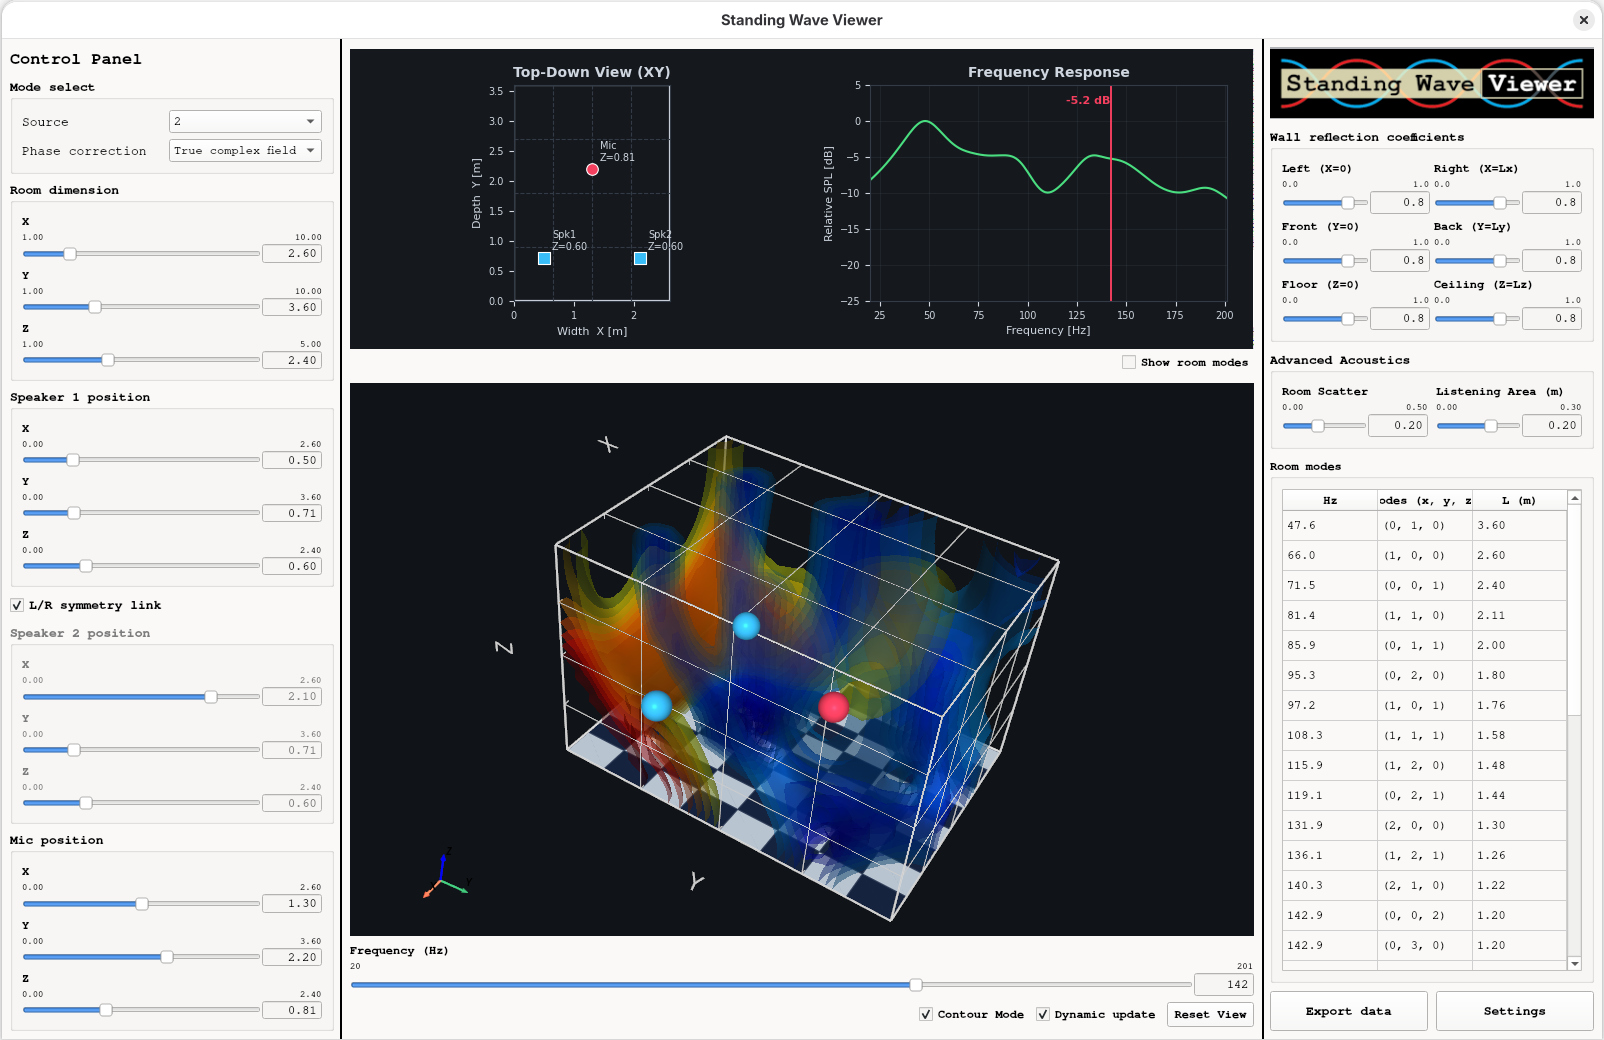
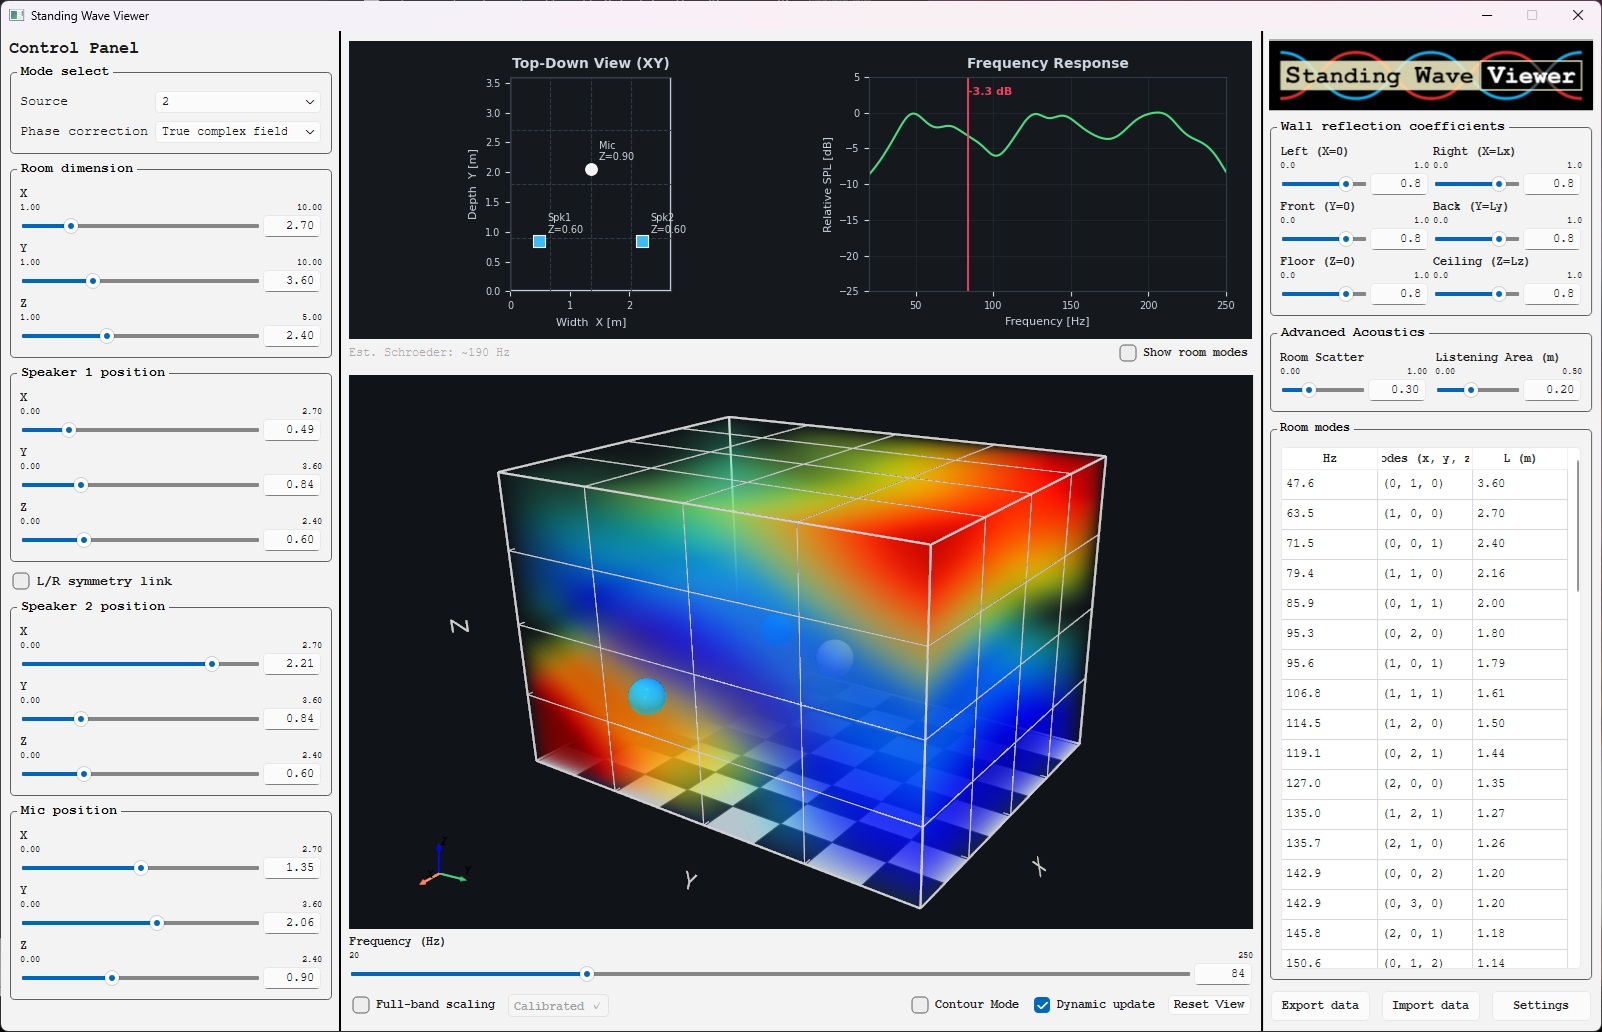
Readme and screenshot update

diff --git a/README.md b/README.md
@@ -43,6 +43,11 @@ To bridge the gap between ideal theoretical physics and real-world perception, u
 ### Windows
 Please download the Windows build from [Release](https://github.com/TatschanT/swv_desktop/releases/). Extract it to any folder and run SWV.exe.
 
+**⚠ Windows Startup Notice**
+Since this is a free, open-source application, the .exe file does not include a paid digital signature. On your first launch, Windows SmartScreen may display a blue warning ("Windows protected your PC").
+To launch the app safely, click "More info" and then select "Run anyway".
+(Tip: You can prevent this by right-clicking the downloaded ZIP, opening Properties, checking "Unblock", and then extracting.)
+
 ### Running on a local environment on Mac and Linux 
 ### Prerequisites
 - Python 3.10+ (Tested with Python 3.14/3.10)
